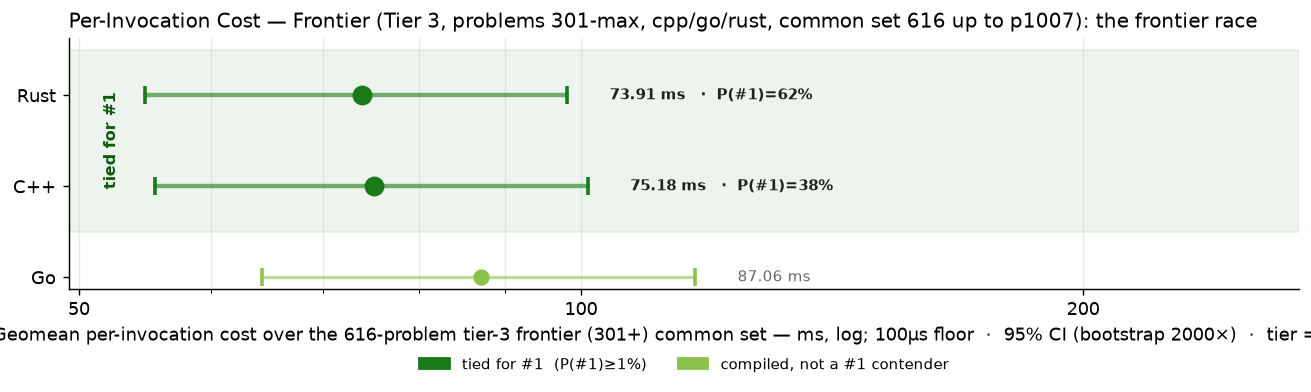
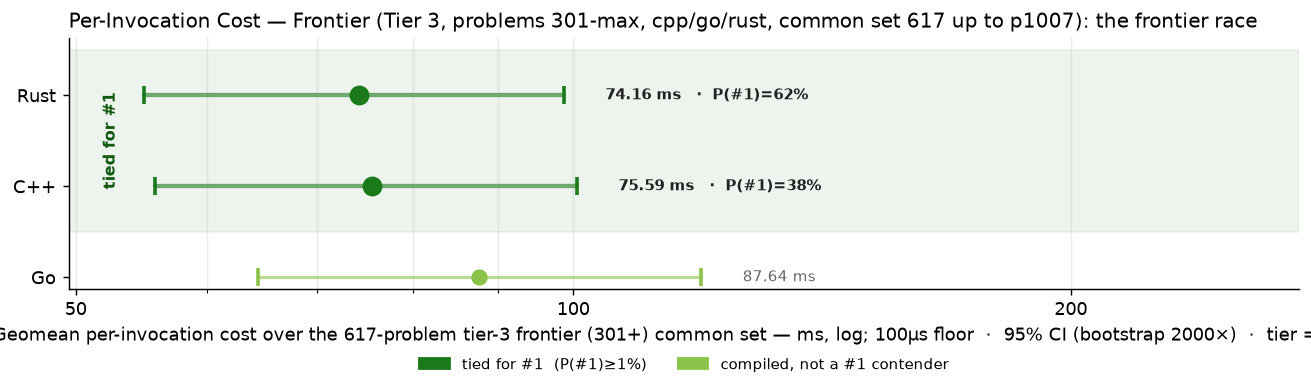
go p0644

diff --git a/RESULTS.md b/RESULTS.md
@@ -1,6 +1,6 @@
 # Project Euler — Cross-Language Benchmarks
 
-> **Scope: 4521 in-scope cells across 1007 problems × tiered languages — 4344 measured (96.1% coverage).**
+> **Scope: 4521 in-scope cells across 1007 problems × tiered languages — 4345 measured (96.1% coverage).**
 > The cross-language ranking below is computed over the **200-problem common set** (problems in 1-200 where every language has a passing measurement) — the apples-to-apples Foundation comparison surface.  Per-tier rankings and coverage detail appear further below.
 > Growing carefully — each new problem and language is audited for state-leak
 > safety, verified for answer correctness, and added only when it cleanly fits the
@@ -70,15 +70,15 @@ Same scatter as the Foundation chart, restricted to the tier-2 active languages 
 
 The frontier verification trio — C++, Go, Rust — on problems above 300. 3-way cross-language agreement is the verification protocol (strictly stronger than 2-way; see JOURNEY.md "Tier Reframing" episode for the p254 lesson that motivated it). Python and Zig are explicitly out of this tier — python's wall cost makes it impractical at level 5+, and zig's role caps at Tier 2.
 
-### Per-Invocation Cost (Common Set, 616 of ≤707 problems in scope)
+### Per-Invocation Cost (Common Set, 617 of ≤707 problems in scope)
 
 ![Per-Invocation Cost — Tier 3](charts/per_iter_total_tier3.png)
 
-| Rank | Language | Geomean (616-problem common set) | Total (sum) | Lines of code | vs Fastest |
+| Rank | Language | Geomean (617-problem common set) | Total (sum) | Lines of code | vs Fastest |
 |------|----------|--------------------:|------------:|--------------:|-----------:|
-| 1 | **Rust** | 73.91 ms | 1704.57 s | 117,349 | 1.00× |
-| 2 | **C++** | 75.18 ms | 1822.81 s | 87,733 | 1.02× |
-| 3 | **Go** | 87.06 ms | 2096.46 s | 110,924 | 1.18× |
+| 1 | **Rust** | 74.16 ms | 1705.18 s | 118,008 | 1.00× |
+| 2 | **C++** | 75.59 ms | 1824.99 s | 87,997 | 1.02× |
+| 3 | **Go** | 87.64 ms | 2101.68 s | 111,459 | 1.18× |
 
 ### Speed vs Code Size
 

diff --git a/per_problem/per_problem_0601-0700.md b/per_problem/per_problem_0601-0700.md
@@ -51,7 +51,7 @@ in tier-1 display order (native → managed → interpreted).
 | **p0641** | 11.18 s | 11.03 s | 10.83 s |
 | **p0642** | 34.00 s† | 40.16 s | 41.13 s |
 | **p0643** | 448.29 ms | 466.28 ms | 580.41 ms |
-| **p0644** | 2.18 s | 607.61 ms | — |
+| **p0644** | 2.18 s | 607.61 ms | 5.22 s |
 | **p0645** | 65.8 µs | 376.7 µs | — |
 | **p0646** | 2.17 s | 5.68 s | 4.61 s |
 | **p0647** | 3.52 ms~ | 2.78 ms | 5.59 ms |
